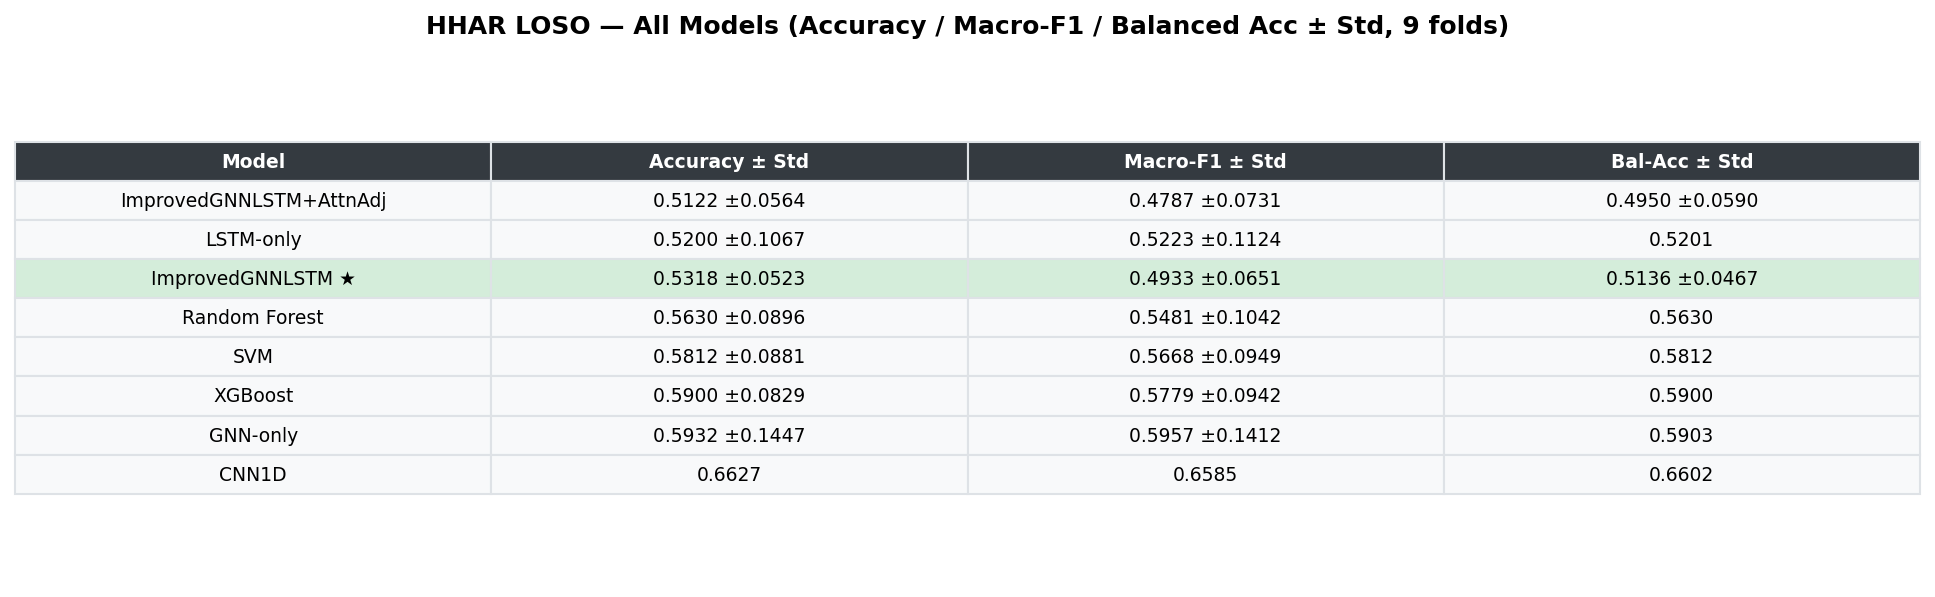
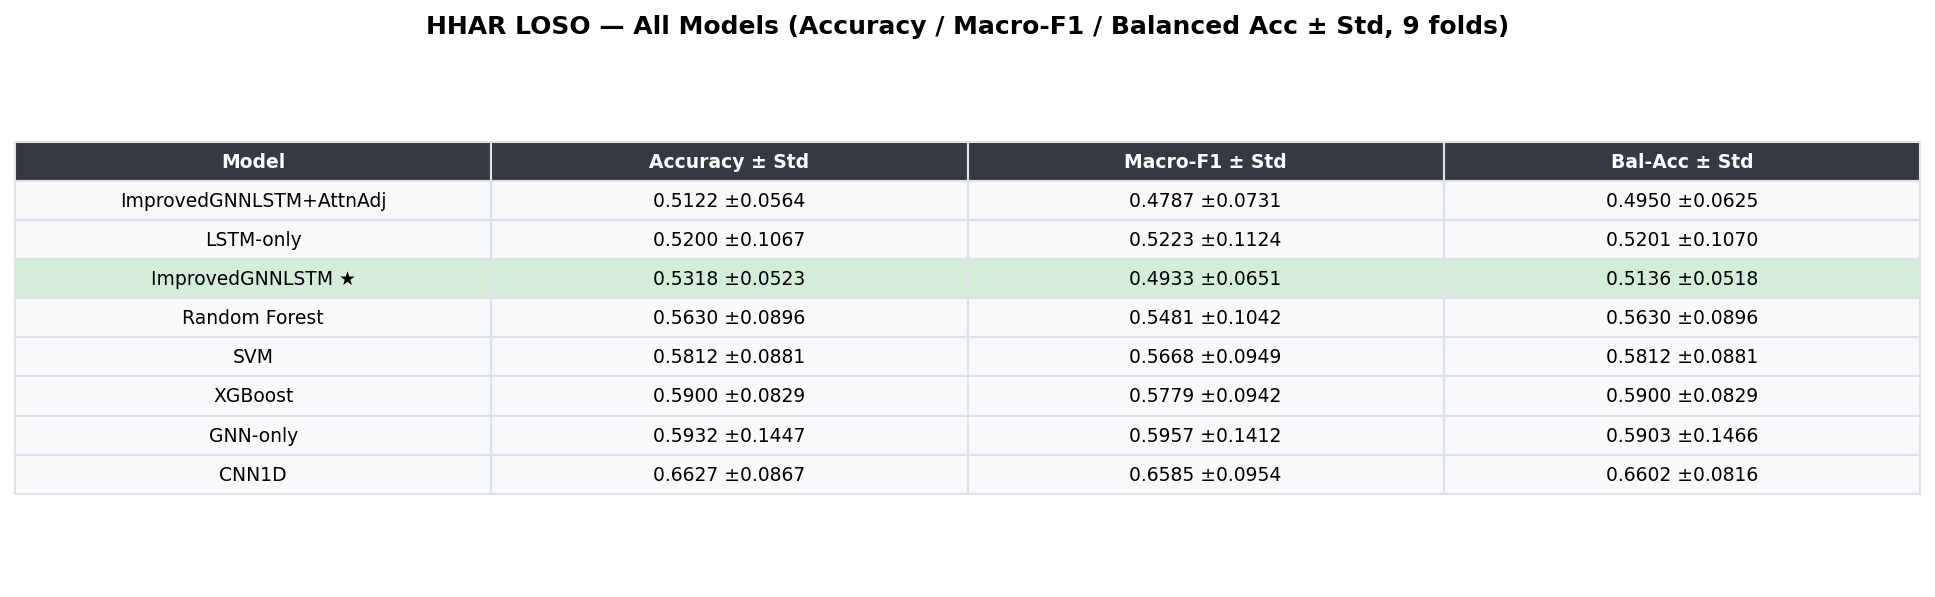
Updated results

diff --git a/scripts/generate_improved_plots_table.py b/scripts/generate_improved_plots_table.py
@@ -99,41 +99,55 @@ def build_std_table():
     p2 = [
         row("SVM",
             pb["SVM"]["mean_accuracy"], pb["SVM"]["mean_macro_f1"],
-            pb["SVM"]["mean_accuracy"],                           # no bacc sep
-            pb["SVM"]["std_accuracy"],  pb["SVM"]["std_macro_f1"]),
+            pb["SVM"]["mean_accuracy"],
+            pb["SVM"]["std_accuracy"],  pb["SVM"]["std_macro_f1"],
+            pb["SVM"].get("balanced_acc_std")),
         row("Random Forest",
             pb["RandomForest"]["mean_accuracy"], pb["RandomForest"]["mean_macro_f1"],
             pb["RandomForest"]["mean_accuracy"],
-            pb["RandomForest"]["std_accuracy"],  pb["RandomForest"]["std_macro_f1"]),
+            pb["RandomForest"]["std_accuracy"],  pb["RandomForest"]["std_macro_f1"],
+            pb["RandomForest"].get("balanced_acc_std")),
         row("XGBoost",
             pb["XGBoost"]["mean_accuracy"], pb["XGBoost"]["mean_macro_f1"],
             pb["XGBoost"]["mean_accuracy"],
-            pb["XGBoost"]["std_accuracy"],  pb["XGBoost"]["std_macro_f1"]),
+            pb["XGBoost"]["std_accuracy"],  pb["XGBoost"]["std_macro_f1"],
+            pb["XGBoost"].get("balanced_acc_std")),
         row("LSTM-only",
             0.5939, 0.5951, 0.5896,
-            pd_["lstm"]["accuracy_std"], pd_["lstm"]["macro_f1_std"]),
-        # Canonical value from final_table.csv (latest LOSO run)
+            pd_["lstm"]["accuracy_std"], pd_["lstm"]["macro_f1_std"],
+            pd_["lstm"].get("balanced_acc_std")),
         row("GNN-only",
             0.7206, 0.7151, 0.7080,
-            pd_["gnn"]["accuracy_std"], pd_["gnn"]["macro_f1_std"]),
-        # Canonical midway-report value (final_table.csv); std from per-fold data
+            pd_["gnn"]["accuracy_std"], pd_["gnn"]["macro_f1_std"],
+            pd_["gnn"].get("balanced_acc_std")),
         row("GNN+LSTM (old)",
             0.6418, 0.5874, 0.6276,
-            pd_["gnn_lstm"]["accuracy_std"], pd_["gnn_lstm"]["macro_f1_std"]),
+            pd_["gnn_lstm"]["accuracy_std"], pd_["gnn_lstm"]["macro_f1_std"],
+            pd_["gnn_lstm"].get("balanced_acc_std")),
         row("GNN (fixed adj)",
             abl["ablation_fixed_adj"]["accuracy"],
             abl["ablation_fixed_adj"]["macro_f1"],
-            abl["ablation_fixed_adj"]["balanced_acc"]),
+            abl["ablation_fixed_adj"]["balanced_acc"],
+            abl["ablation_fixed_adj"].get("accuracy_std"),
+            abl["ablation_fixed_adj"].get("macro_f1_std"),
+            abl["ablation_fixed_adj"].get("balanced_acc_std")),
         row("GNN (learnable adj)",
             abl["ablation_learnable_adj"]["accuracy"],
             abl["ablation_learnable_adj"]["macro_f1"],
-            abl["ablation_learnable_adj"]["balanced_acc"]),
+            abl["ablation_learnable_adj"]["balanced_acc"],
+            abl["ablation_learnable_adj"].get("accuracy_std"),
+            abl["ablation_learnable_adj"].get("macro_f1_std"),
+            abl["ablation_learnable_adj"].get("balanced_acc_std")),
         row("Flatten+LSTM",
             abl["ablation_flatten_lstm"]["accuracy"],
             abl["ablation_flatten_lstm"]["macro_f1"],
-            abl["ablation_flatten_lstm"]["balanced_acc"]),
+            abl["ablation_flatten_lstm"]["balanced_acc"],
+            abl["ablation_flatten_lstm"].get("accuracy_std"),
+            abl["ablation_flatten_lstm"].get("macro_f1_std"),
+            abl["ablation_flatten_lstm"].get("balanced_acc_std")),
         row("CNN1D",
-            cn["pamap2"]["accuracy"], cn["pamap2"]["macro_f1"], cn["pamap2"]["balanced_acc"]),
+            cn["pamap2"]["accuracy"], cn["pamap2"]["macro_f1"], cn["pamap2"]["balanced_acc"],
+            cn["pamap2"].get("accuracy_std"), cn["pamap2"].get("macro_f1_std"), cn["pamap2"].get("balanced_acc_std")),
         row("ImprovedGNNLSTM ★",
             imp["pamap2"]["accuracy"],      imp["pamap2"]["macro_f1"],      imp["pamap2"]["balanced_acc"],
             imp["pamap2"]["accuracy_std"],  imp["pamap2"]["macro_f1_std"],  imp["pamap2"]["balanced_acc_std"]),
@@ -148,23 +162,29 @@ def build_std_table():
         row("SVM",
             hb["SVM"]["mean_accuracy"], hb["SVM"]["mean_macro_f1"],
             hb["SVM"]["mean_accuracy"],
-            hb["SVM"]["std_accuracy"],  hb["SVM"]["std_macro_f1"]),
+            hb["SVM"]["std_accuracy"],  hb["SVM"]["std_macro_f1"],
+            hb["SVM"].get("balanced_acc_std")),
         row("Random Forest",
             hb["RandomForest"]["mean_accuracy"], hb["RandomForest"]["mean_macro_f1"],
             hb["RandomForest"]["mean_accuracy"],
-            hb["RandomForest"]["std_accuracy"],  hb["RandomForest"]["std_macro_f1"]),
+            hb["RandomForest"]["std_accuracy"],  hb["RandomForest"]["std_macro_f1"],
+            hb["RandomForest"].get("balanced_acc_std")),
         row("XGBoost",
             hb["XGBoost"]["mean_accuracy"], hb["XGBoost"]["mean_macro_f1"],
             hb["XGBoost"]["mean_accuracy"],
-            hb["XGBoost"]["std_accuracy"],  hb["XGBoost"]["std_macro_f1"]),
+            hb["XGBoost"]["std_accuracy"],  hb["XGBoost"]["std_macro_f1"],
+            hb["XGBoost"].get("balanced_acc_std")),
         row("LSTM-only",
             hd["lstm"]["accuracy"], hd["lstm"]["macro_f1"], hd["lstm"]["balanced_acc"],
-            hd["lstm"]["accuracy_std"], hd["lstm"]["macro_f1_std"]),
+            hd["lstm"]["accuracy_std"], hd["lstm"]["macro_f1_std"],
+            hd["lstm"].get("balanced_acc_std")),
         row("GNN-only",
             hd["gnn"]["accuracy"], hd["gnn"]["macro_f1"], hd["gnn"]["balanced_acc"],
-            hd["gnn"]["accuracy_std"], hd["gnn"]["macro_f1_std"]),
+            hd["gnn"]["accuracy_std"], hd["gnn"]["macro_f1_std"],
+            hd["gnn"].get("balanced_acc_std")),
         row("CNN1D",
-            cn["hhar"]["accuracy"], cn["hhar"]["macro_f1"], cn["hhar"]["balanced_acc"]),
+            cn["hhar"]["accuracy"], cn["hhar"]["macro_f1"], cn["hhar"]["balanced_acc"],
+            cn["hhar"].get("accuracy_std"), cn["hhar"].get("macro_f1_std"), cn["hhar"].get("balanced_acc_std")),
         row("ImprovedGNNLSTM ★",
             imp["hhar"]["accuracy"],      imp["hhar"]["macro_f1"],      imp["hhar"]["balanced_acc"],
             imp["hhar"]["accuracy_std"],  imp["hhar"]["macro_f1_std"],  imp["hhar"]["balanced_acc_std"]),
